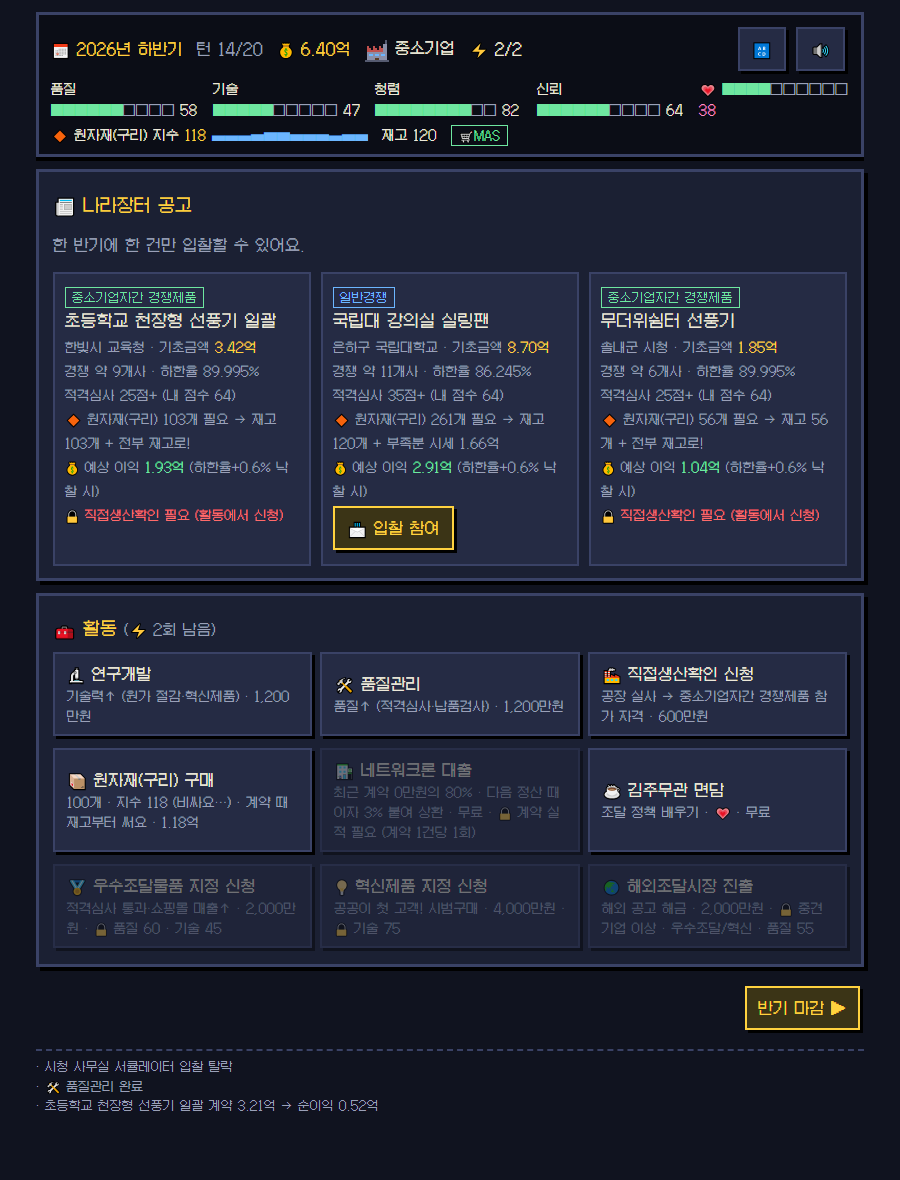
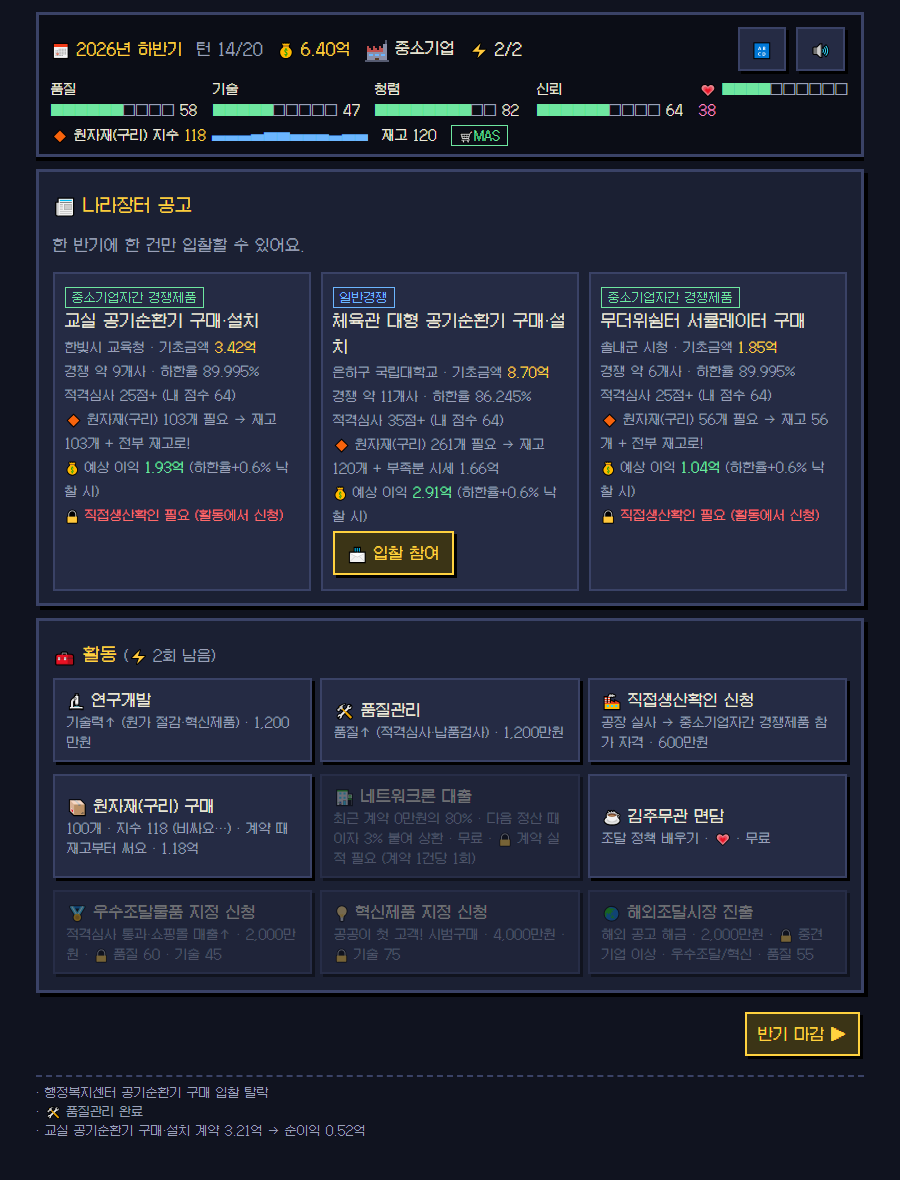
Notice items follow real procurement titles; note on how small items are really bought
Small notices stay fans; larger ones become 공기순환기 구매·설치, 급배기팬 제작·설치, 냉난방기(EHP)·환기설비 — the kinds of items that actually go out to bid. Title and README note that fans are usually bought via 종합쇼핑몰/학교장터 in reality.

diff --git a/index.html b/index.html
@@ -144,7 +144,8 @@ function sprite(k){if(sprCache[k])return sprCache[k];const s=SPR[k],cv=document.
 const TIER=[{n:'소기업',e:'🔧',over:0.04,buy:30},{n:'중소기업',e:'🏭',over:0.1,buy:100},{n:'중견기업',e:'🏢',over:0.6,buy:600},{n:'대기업',e:'🏙',over:2.5,buy:2000}];
 const TH=[0,2,20,100]; // 연매출(억) 기준 — 게임용 단순화
 const NT={small:{n:'소액',b:[.3,1],c:[3,6],diff:15,qReq:0,cls:''},sme:{n:'중소기업자간 경쟁제품',b:[1,5],c:[6,10],diff:30,qReq:25,cls:'g'},general:{n:'일반경쟁',b:[3,15],c:[8,14],diff:45,qReq:35,cls:'b'},large:{n:'대형 일괄',b:[20,80],c:[4,7],diff:60,qReq:50,cls:'r'},overseas:{n:'해외조달',b:[50,200],c:[3,5],diff:70,qReq:60,cls:'p'}};
-const ITEMS={small:['교실 벽걸이 선풍기','민원실 스탠드 선풍기','경로당 선풍기','작은도서관 서큘레이터','보건소 탁상 선풍기'],sme:['초등학교 천장형 선풍기 일괄','시청 사무실 서큘레이터','도서관 공기순환기','군 생활관 벽걸이 선풍기','무더위쉼터 선풍기'],general:['국립대 강의실 실링팬','공공청사 공기순환 설비','병원 병동 저소음 선풍기','체육관 대형 산업용 팬'],large:['신청사 송풍 설비 일괄','국립대 기숙사 냉방 보조 팬','지하철역 대형 송풍기','공공도서관 신관 실링팬'],overseas:['🇻🇳 베트남 학교 교실 선풍기','🇺🇳 국제기구 난민캠프 태양광 선풍기','🇰🇪 케냐 보건소 송풍기','🇵🇭 필리핀 재난 대피소 선풍기']};
+// 공고 품목: 실제 조달 공고 이름 꼴(구매·설치). 소액은 선풍기, 커질수록 공기순환기·냉난방기·환기설비
+const ITEMS={small:['교실 벽걸이 선풍기 구매','민원실 스탠드 선풍기 구매','경로당 선풍기 구매','작은도서관 서큘레이터 구매','보건소 탁상 선풍기 구매'],sme:['교실 공기순환기 구매·설치','도서관 공기순환기 구매·설치','행정복지센터 공기순환기 구매','군 생활관 공기순환기 구매·설치','무더위쉼터 서큘레이터 구매'],general:['체육관 대형 공기순환기 구매·설치','강당 급배기팬 제작·설치','병원 병동 저소음 공기순환기 구매','국립대 강의실 실링팬 구매·설치'],large:['체육관 냉난방기(EHP) 구매·설치','신축 학교 환기설비 일괄 구매·설치','지하철역 대형 송풍기 구매·설치','공공도서관 신관 공조설비 일괄 구매'],overseas:['🇻🇳 베트남 학교 교실 선풍기 공급','🇺🇳 국제기구 난민캠프 태양광 선풍기 공급','🇰🇪 케냐 보건소 공기순환기 공급','🇵🇭 필리핀 재난 대피소 선풍기 공급']};
 const PLACES=['한빛시','푸른군','은하구','바다시','솔내군','가람시','별빛시'], AGS=['초등학교','시청','국립대학교','보건소','교육청','구립도서관','공단','사단'];
 const RIVALS=['대한전기','한빛팬','미래공조','성실산업','동방에어','우리전자','새솔바람','청운모터','바른공조','금강산업','태평양팬','누리바람','해오름산업','정직한전기'];
 
@@ -269,7 +270,7 @@ function title(){S=null;const sv=store.get('pps_save',null),cnt=(o,t)=>[Object.k
  <p>${B('▶ 게임 시작 ◀',nameStep,'pri start')}</p>
  <p>${sv?B('⏯ 이어하기',()=>{S=sv;startTurn(true)}):''} ${B('📚 도감',()=>collection('end'))} ${B('❓ 게임 방법',help)} ${B(big?'🔠 큰 글씨 켜짐':'🔠 큰 글씨',()=>{flipBig();title()},big?'on':'')}</p>
  <div class="progs">${prog('🏆 엔딩',cnt(col.end,ENDS))}${prog('📖 조달도감',cnt(col.dict,DICT))}${prog('📘 정책도감',cnt(col.pol,POL))}${prog('🎖 칭호',cnt(col.ach,ACH))}</div></div>
- <p class="foot">2026 조달청 AI 게임·콘텐츠 공모전 출품작 · AI(Claude)를 활용해 제작<br>등장하는 기관·업체·인물과 2027년 이후 사건은 가상이며, 제도는 게임용으로 단순화했어요.</p>`,false)}
+ <p class="foot">2026 조달청 AI 게임·콘텐츠 공모전 출품작 · AI(Claude)를 활용해 제작<br>등장하는 기관·업체·인물과 2027년 이후 사건은 가상이며, 제도는 게임용으로 단순화했어요.<br>선풍기 같은 소액 물품은 실제론 종합쇼핑몰·학교장터(S2B)에서 많이 사요. 게임에선 입찰 체험을 위해 공고로 만들었어요.</p>`,false)}
 function nameStep(){const go=()=>{newGame(document.getElementById('nm').value.trim());intro()};
  render(()=>dlg('sys','📝 <b>나라장터 업체 등록</b><br>사장님 회사 이름을 입력해 주세요.<br><input id="nm" class="nm-in" maxlength="10" value="시원공방">',B('등록하기 ▶',go,'pri')+' '+B('◀ 처음으로',title)),false);
  const el=document.getElementById('nm');el.focus();el.select();el.onkeydown=e=>{if(e.key==='Enter')go()}}

diff --git a/tools/make-record.js b/tools/make-record.js
@@ -7,8 +7,8 @@ const scenes = `
 const DEMO=true;
 try{localStorage.removeItem('pps_save')}catch(e){}
 function demoState(){newGame('시원공방');Object.assign(S,{turn:12,cash:6.4,q:62,t:55,integ:84,rep:66,aff:30,spark:true,affStage:1,tier:1,tierMax:1,wins:8,total:24,stock:150,mas:true,dpc:true,mat:112,matHist:[100,96,104,125,150,141,128,122,117,112,108,112],sajung:[1.0042,.9968,1.0011,.9987,1.0023],lastOffer:12,talks:5});
- S.log=['초등학교 천장형 선풍기 일괄 계약 3.21억 → 순이익 0.52억','🛠 품질관리 완료'];
- S.notices=[{type:'sme',item:'초등학교 천장형 선풍기 일괄',ag:'한빛시 교육청',base:3.42,comp:9},{type:'general',item:'국립대 강의실 실링팬',ag:'은하구 국립대학교',base:8.7,comp:11},{type:'sme',item:'무더위쉼터 선풍기',ag:'솔내군 시청',base:1.85,comp:6}]}
+ S.log=['교실 공기순환기 구매·설치 계약 3.21억 → 순이익 0.52억','🛠 품질관리 완료'];
+ S.notices=[{type:'sme',item:'교실 공기순환기 구매·설치',ag:'한빛시 교육청',base:3.42,comp:9},{type:'general',item:'체육관 대형 공기순환기 구매·설치',ag:'은하구 국립대학교',base:8.7,comp:11},{type:'sme',item:'무더위쉼터 서큘레이터 구매',ag:'솔내군 시청',base:1.85,comp:6}]}
 // 투찰하면 하한선에 칼같이 붙여 낙찰되는 결과가 나올 때까지 다시 추첨 (녹화용)
 const realResolve=resolveBid;
 resolveBid=function(collude){if(collude)return realResolve(collude);const snap=JSON.stringify(S),c0=JSON.stringify(S.cur);
@@ -22,7 +22,7 @@ const SC={
  '4':()=>{demoState();openBid(0);collusionOffer()},
  '5':()=>{demoState();S.turn=4;FIXED[4](hub)},
  '6':()=>{demoState();S.aff=60;S.affStage=1;romanceCheck()},
- '7':()=>{demoState();S.turn=13;S.halfRev=12;S.rev=[2,10];S.wins=12;S.yearWins0=8;S.yearBest={item:'초등학교 천장형 선풍기 일괄',ag:'한빛시 교육청',price:3.42};S.graceUsed=true;settle()},
+ '7':()=>{demoState();S.turn=13;S.halfRev=12;S.rev=[2,10];S.wins=12;S.yearWins0=8;S.yearBest={item:'교실 공기순환기 구매·설치',ag:'한빛시 교육청',price:3.42};S.graceUsed=true;settle()},
  '8':()=>{demoState();Object.assign(S,{turn:20,tier:3,tierMax:3,ow:3,global:true,cash:84.2,total:284,wins:31,romance:'declared',aff:100,integ:93,collusion:0,polUsed:Object.fromEntries(Object.keys(POL).slice(0,15).map(k=>[k,1]))});finalEnding()},
  '9':()=>{demoState();Object.assign(S,{turn:20,tier:0,tierMax:1,romance:'declared',aff:100,integ:84,cash:3.1,total:18,wins:9,excellent:false,polUsed:{nara:1,yega:1,sme_priority:1,conflict:1,mas:1}});finalEnding()}};
 // ?scene=번호 로 열면 그 장면부터 (캡처용)

diff --git a/README.md b/README.md
@@ -96,7 +96,7 @@
 - 도트 캐릭터와 선풍기 아이콘은 이미지 파일 없이 코드로 직접 그렸어요.
 - 폰트: [Galmuri](https://github.com/quiple/galmuri) © Lee Minseo, SIL Open Font License 1.1 ([OFL-Galmuri.md](OFL-Galmuri.md)). 인터넷 없이도 똑같이 보이도록 `index.html`에 내장했어요.
 
-등장하는 기관·업체·인물과 2027년 이후 사건은 가상이며, 제도는 게임용으로 단순화했습니다.
+등장하는 기관·업체·인물과 2027년 이후 사건은 가상이며, 제도는 게임용으로 단순화했습니다. 공고 품목은 실제 조달 공고의 이름 꼴(○○ 공기순환기 구매·설치 등)을 따랐지만 특정 공고가 아니에요. 선풍기 같은 소액 물품은 실제로는 나라장터 종합쇼핑몰이나 학교장터(S2B)에서 사는 경우가 많고, 게임에선 입찰 체험을 위해 공고로 만들었어요.
 
 ---
 
